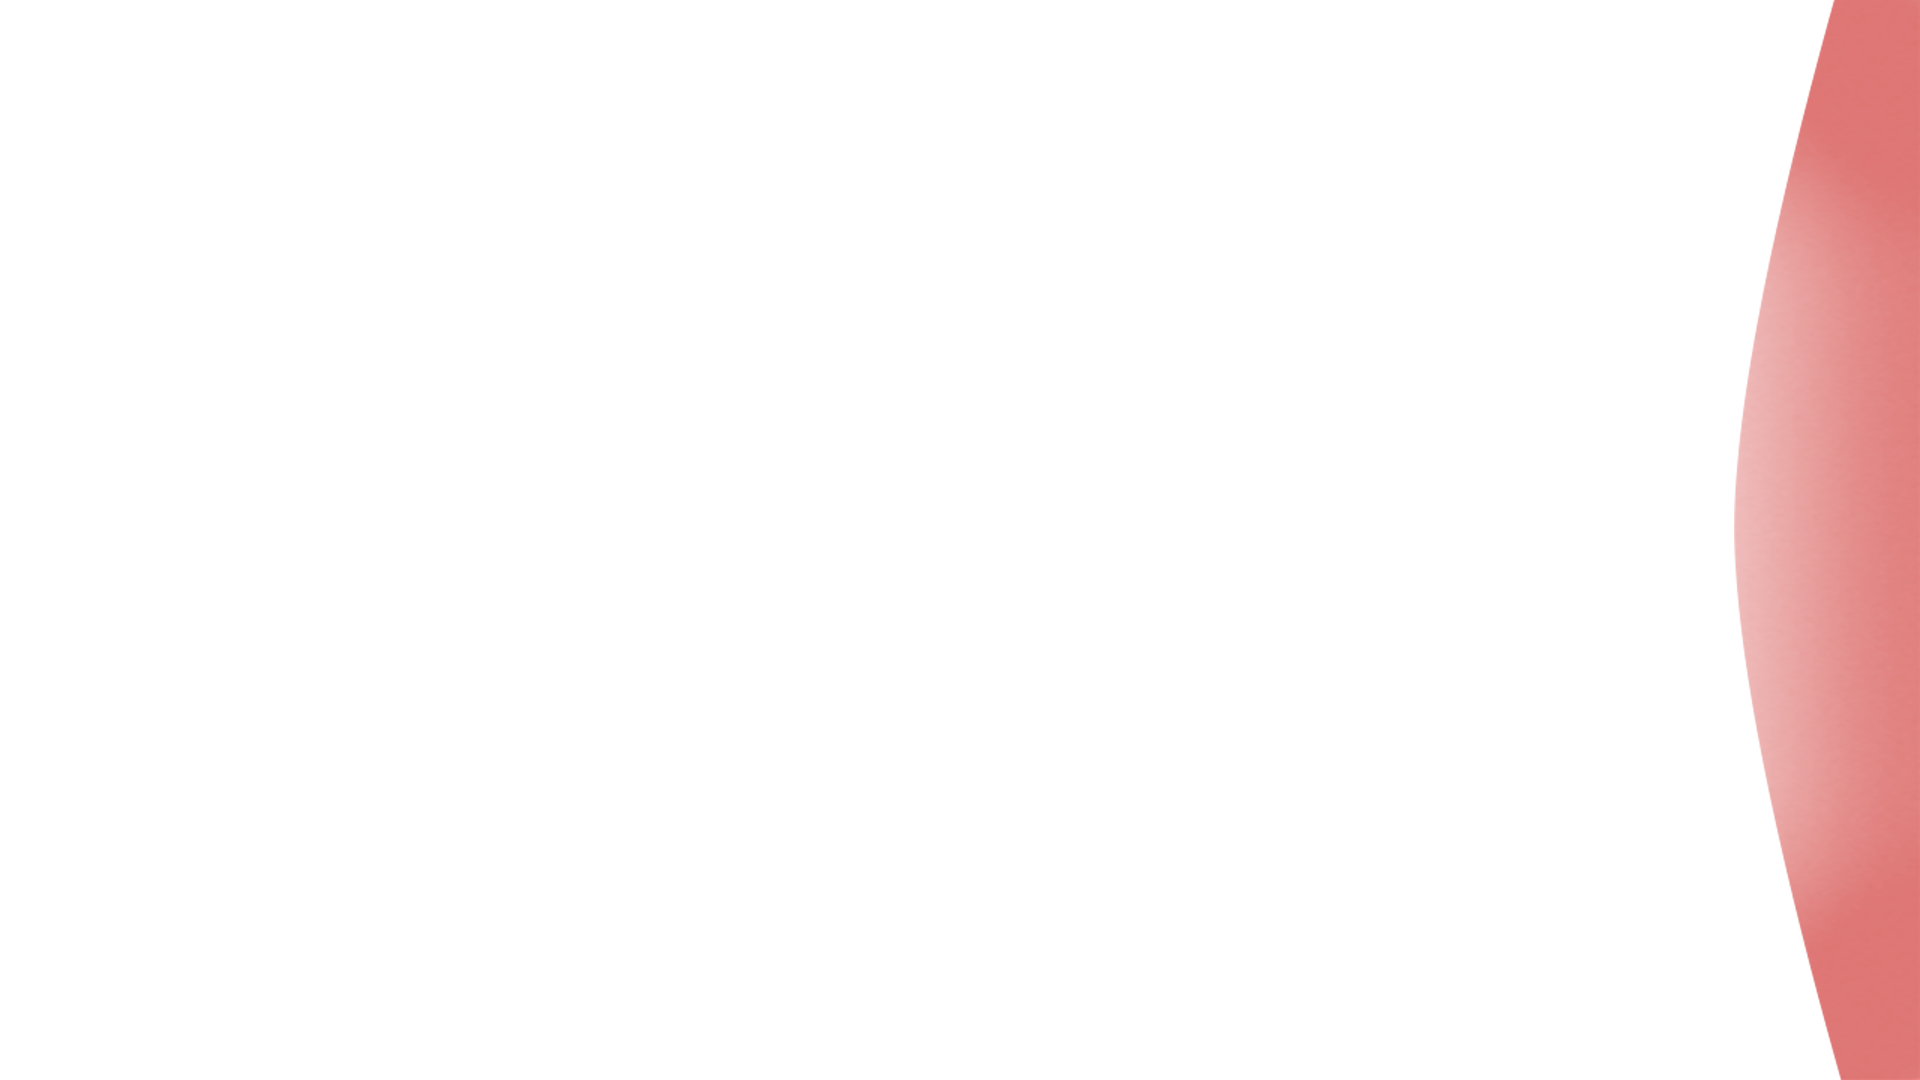
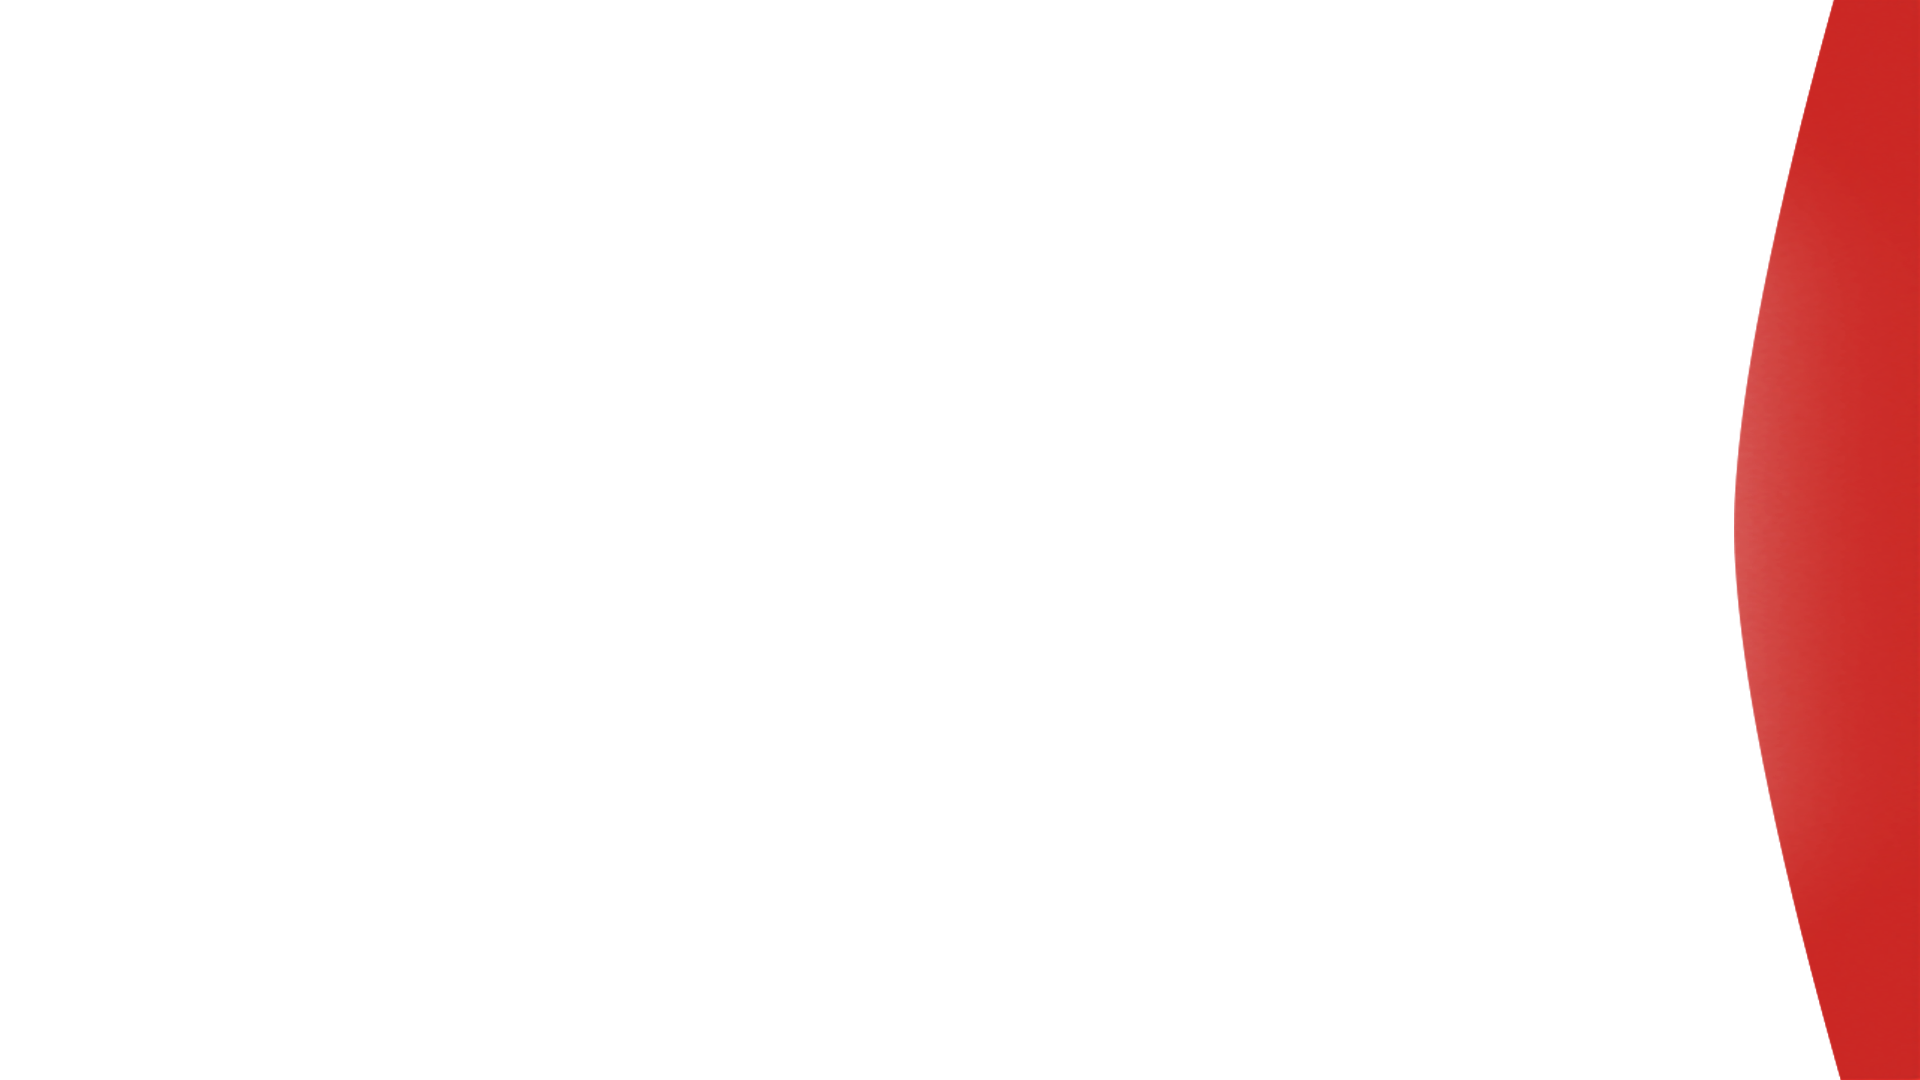
Hit marker and damage indicators display properly now

Changed region(s): [[0.9062, 0.0, 1.0, 1.0]]

diff --git a/BattleRoyale/Assets/ANW/UI/damageUI.cs b/BattleRoyale/Assets/ANW/UI/damageUI.cs
@@ -52,49 +52,65 @@ public class damageUI : MonoBehaviour {
     {
         if ((angle <= 22 && angle >= 0) || (angle >= 337 && angle <= 359))
         {
-            damageIndicator[5].color += new Color(0, 0, 0, 64);
+            alphaSet = damageIndicator[5].color;
+            alphaSet.a += 64;
+            damageIndicator[5].color = alphaSet;
             Debug.Log("Damage from front!");
         }
 
         else if (angle <= 67 && angle >= 22)
         {
-           damageIndicator[6].color += new Color(0, 0, 0, 64);
+            alphaSet = damageIndicator[6].color;
+            alphaSet.a += 64;
+            damageIndicator[6].color = alphaSet;
             Debug.Log("Damage from front-left!");
         }
 
         else if (angle <= 112 && angle >= 67)
         {
-            damageIndicator[3].color += new Color(0, 0, 0, 64);
+            alphaSet = damageIndicator[3].color;
+            alphaSet.a += 64;
+            damageIndicator[3].color = alphaSet;
             Debug.Log("Damage from left!");
         }
 
         else if (angle <= 157 && angle >= 112)
         {
-            damageIndicator[1].color += new Color(0, 0, 0, 64);
+            alphaSet = damageIndicator[1].color;
+            alphaSet.a += 64;
+            damageIndicator[1].color = alphaSet;
             Debug.Log("Damage from back-left!");
         }
 
         else if (angle <= 202 && angle >= 157)
         {
-            damageIndicator[0].color += new Color(0, 0, 0, 64);
+            alphaSet = damageIndicator[0].color;
+            alphaSet.a += 64;
+            damageIndicator[0].color = alphaSet;
             Debug.Log("Damage from back!");
         }
 
         else if (angle <= 247 && angle >= 202)
         {
-            damageIndicator[2].color += new Color(0, 0, 0, 64);
+            alphaSet = damageIndicator[2].color;
+            alphaSet.a += 64;
+            damageIndicator[2].color = alphaSet;
             Debug.Log("Damage from back-right!");
         }
 
         else if (angle <= 292 && angle >= 247)
         {
-            damageIndicator[4].color += new Color(0, 0, 0, 64);
+            alphaSet = damageIndicator[4].color;
+            alphaSet.a += 64;
+            damageIndicator[4].color = alphaSet;
             Debug.Log("Damage from right!");
         }
 
         else if (angle <= 337 && angle >= 292)
         {
-            damageIndicator[7].color += new Color(0, 0, 0, 64);
+            alphaSet = damageIndicator[7].color;
+            alphaSet.a += 64;
+            damageIndicator[7].color = alphaSet;
             Debug.Log("Damage from front-right!");
         }
     }
